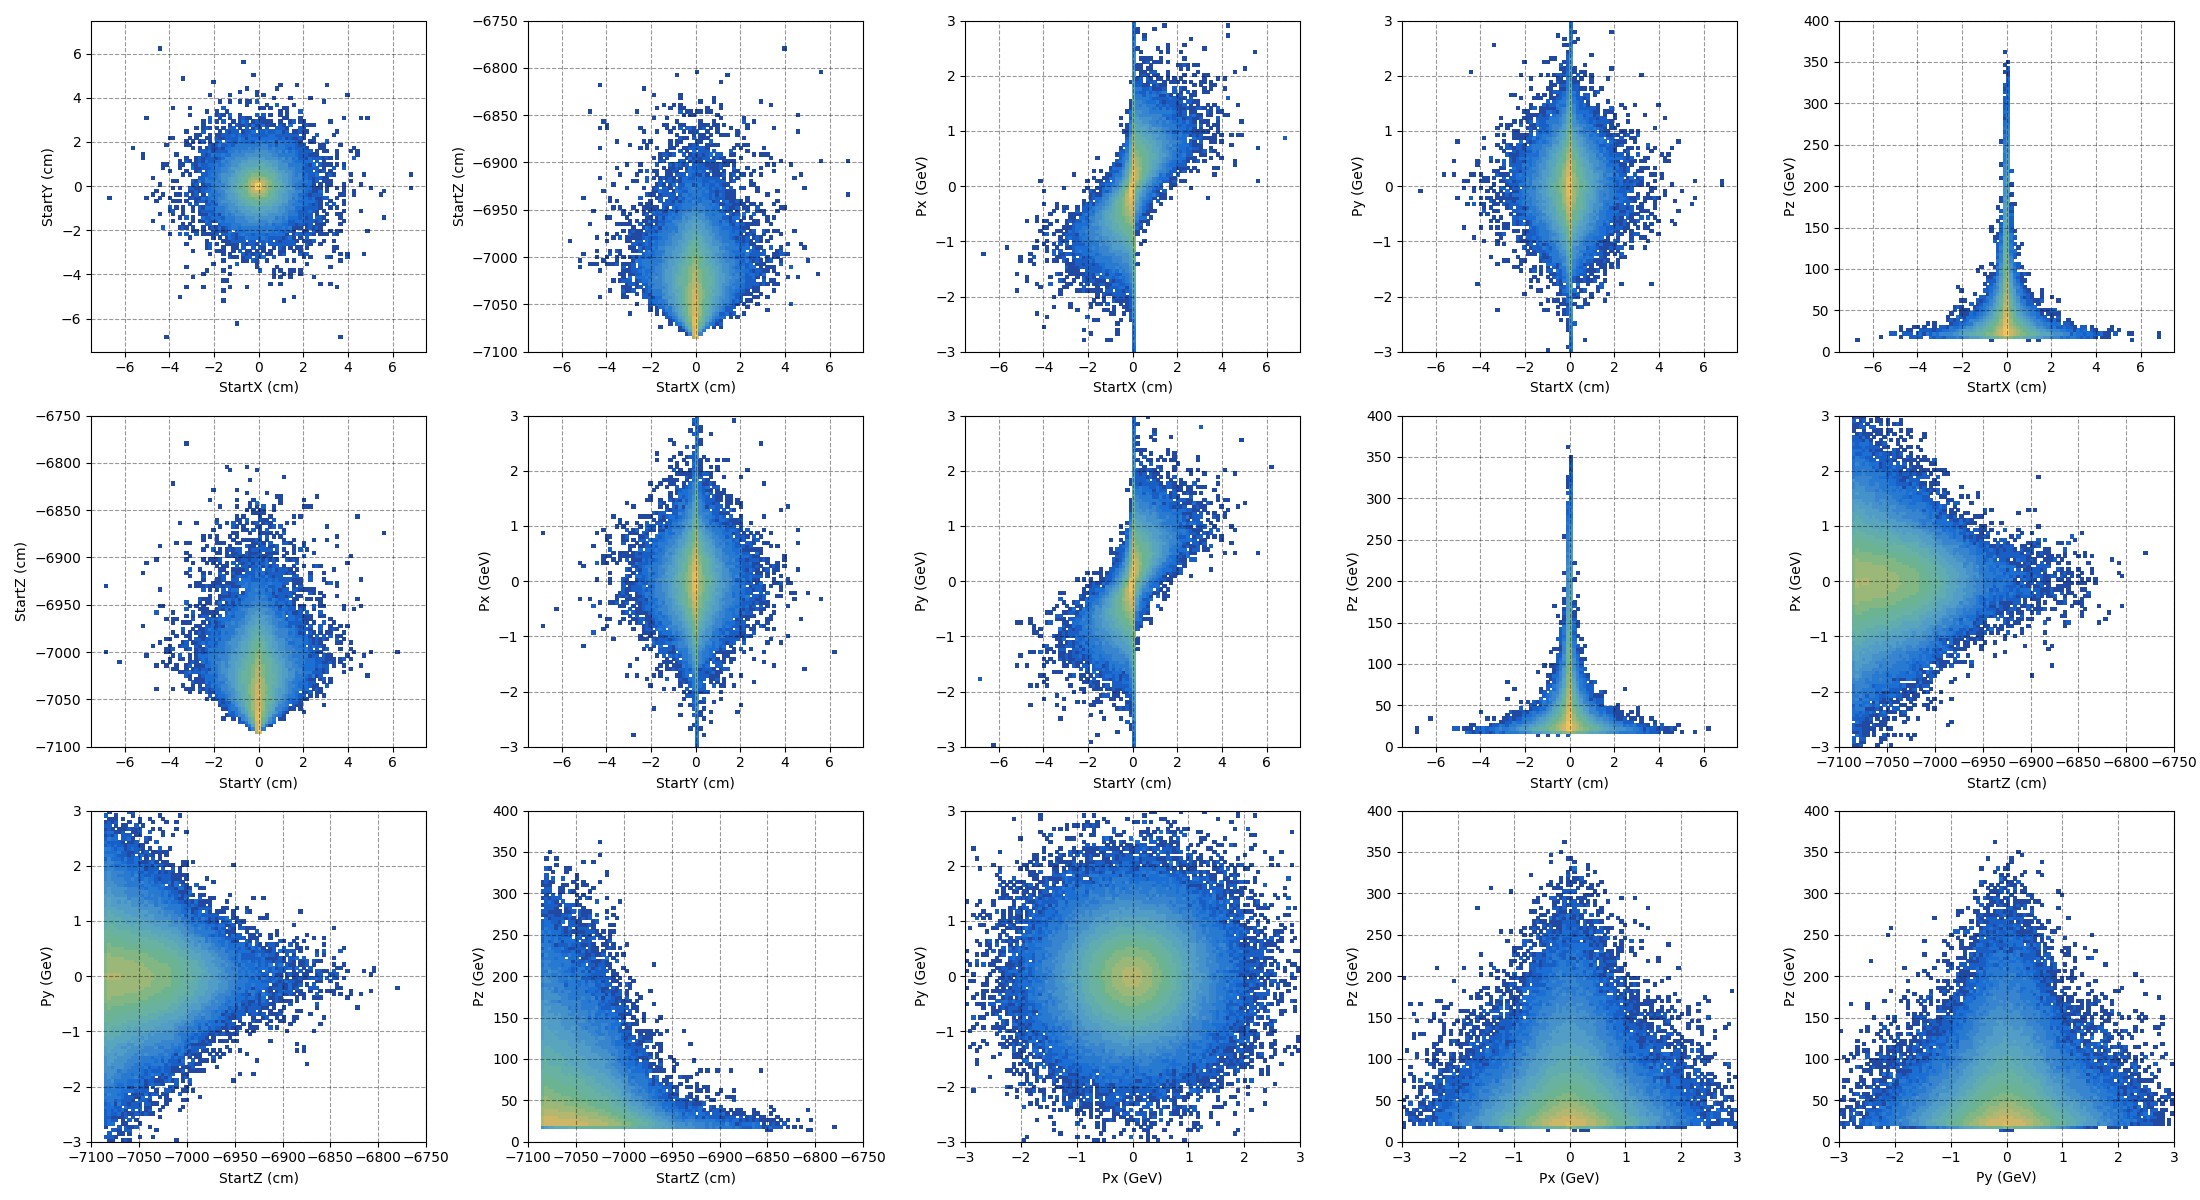
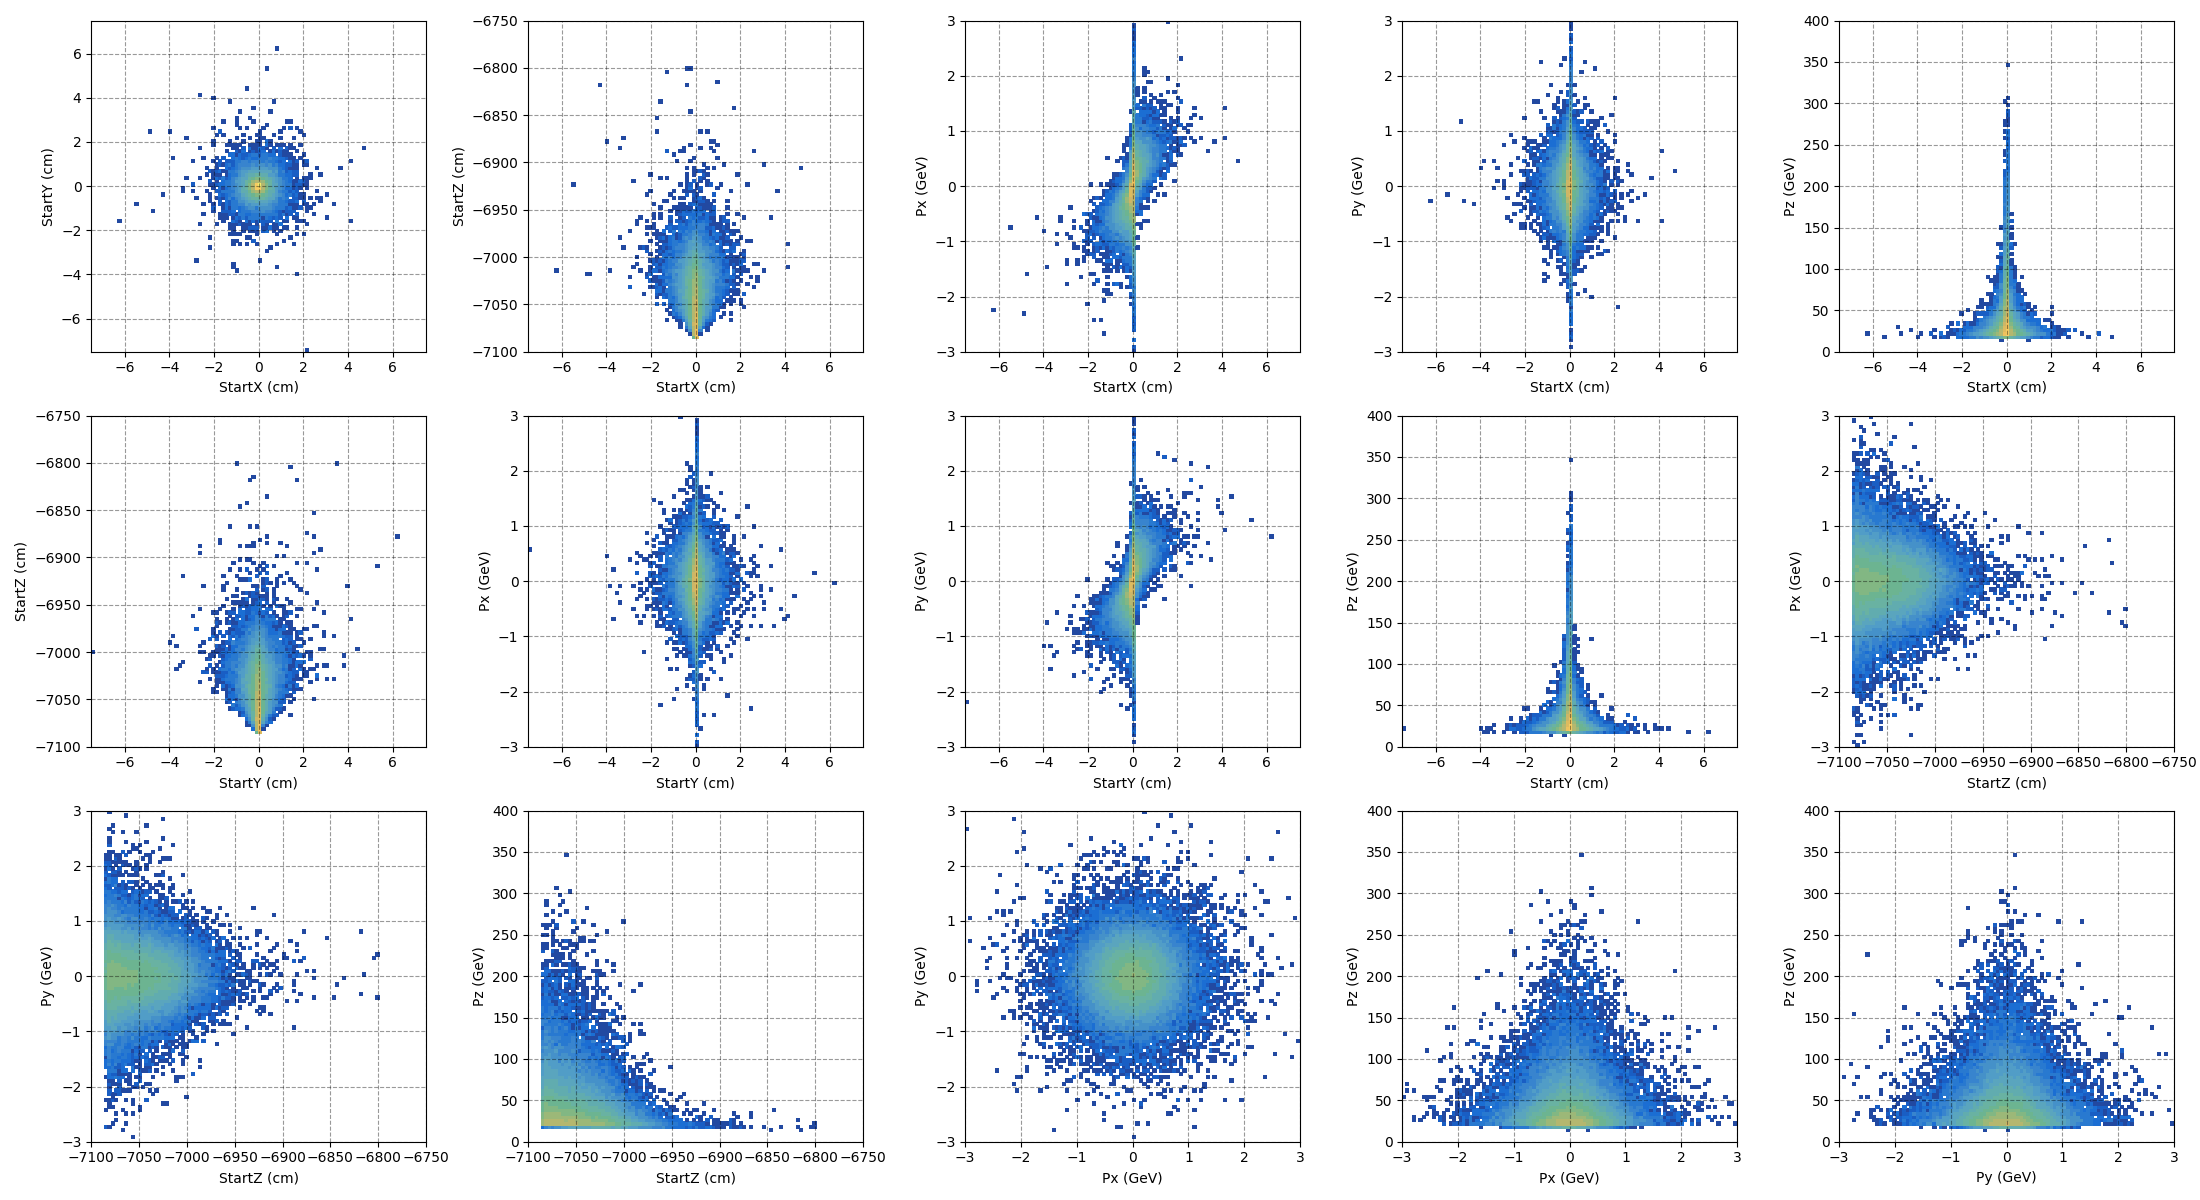
oops i changed minmax

diff --git a/Tune_auxiliary_inputs.py b/Tune_auxiliary_inputs.py
@@ -24,15 +24,30 @@ from SHiP_GAN_module import muGAN
 muGAN = muGAN()
 ########################################################################################################################################################
 
+# print(np.load('SHiP_GAN_module/data_files/tuned_aux_parameters.npy'))
+# quit()
 
-muGAN.tune(size=int(1E6), 
-	output_folder='Tuning_results',
-	training_data_location='/Users/am13743/Desktop/Data_for_GAN_paper_plots/real_data.npy')
+# initial_values = [[1.0e+00 1.0e-01 8.0e-01 0.0e+00 0.0e+00 0.0e+00 0.0e+00]
+# 				 [0.0e+00 0.0e+00 0.0e+00 5.0e-04 1.2e+00 1.0e-03 2.7e-01]
+# 				 [0.0e+00 0.0e+00 0.0e+00 1.0e-02 1.3e+00 1.0e-03 1.2e-01]
+# 				 [0.0e+00 0.0e+00 0.0e+00 5.0e-01 8.0e-01 0.0e+00 2.0e-01]]
+
+# initial_values = np.empty((4,7))
+# initial_values[0] = [ 1, 0.1, 0.8, 0, 0, 0, 0] # x y
+# initial_values[1] = [ 0, 0, 0, 0.0005, 1.2, 1E-3, 0.27] # z 
+# initial_values[2] = [ 0, 0, 0, 0.005, 1.3, 1E-3, 0.12] # px py
+# # initial_values[3] = [ 0, 0, 0, 0.003, 1.1, 0, 0.2] # pz
+# initial_values[3] = [ 0, 0, 0, 0.5, 0.8, 0, 0.2] # pz
 
 
-# muGAN.tune(size=int(1E6), initial_values=initial_values, 
+# muGAN.tune(size=int(1E5), 
 # 	output_folder='Tuning_results',
-# 	training_data_location='/mnt/storage/scratch/am13743/real_data.npy')
+# 	training_data_location='/Users/am13743/Desktop/Data_for_GAN_paper_plots/real_data.npy')
+
+
+muGAN.tune(size=int(1E7), 
+	output_folder='Tuning_results',
+	training_data_location='/mnt/storage/scratch/am13743/real_data.npy')
 
 
 

diff --git a/SHiP_GAN_module/muGAN.py b/SHiP_GAN_module/muGAN.py
@@ -769,11 +769,11 @@ class muGAN:
 
 		self.define_plotting_tools()
 
-		self.min_max[3][0] = -5.5
-		self.min_max[3][1] = 5.5
+		self.min_max_plot[3][0] = -5.5
+		self.min_max_plot[3][1] = 5.5
 
-		self.min_max[4][0] = -5.5
-		self.min_max[4][1] = 5.5
+		self.min_max_plot[4][0] = -5.5
+		self.min_max_plot[4][1] = 5.5
 
 		X_train = np.load(training_data_location)
 		if size > np.shape(X_train)[0]:
@@ -847,7 +847,7 @@ class muGAN:
 		self.plot_kinematics(data=images, filename='%s/Correlations_%s.png'%(output_folder,label))
 		self.plot_p_pt(data=images, filename='%s/P_PT_%s.png'%(output_folder,label))
 
-		self.BDT_FoM(X_train, images, test_size=50000)
+		# self.BDT_FoM(X_train, images, test_size=50000)
 
 
 
